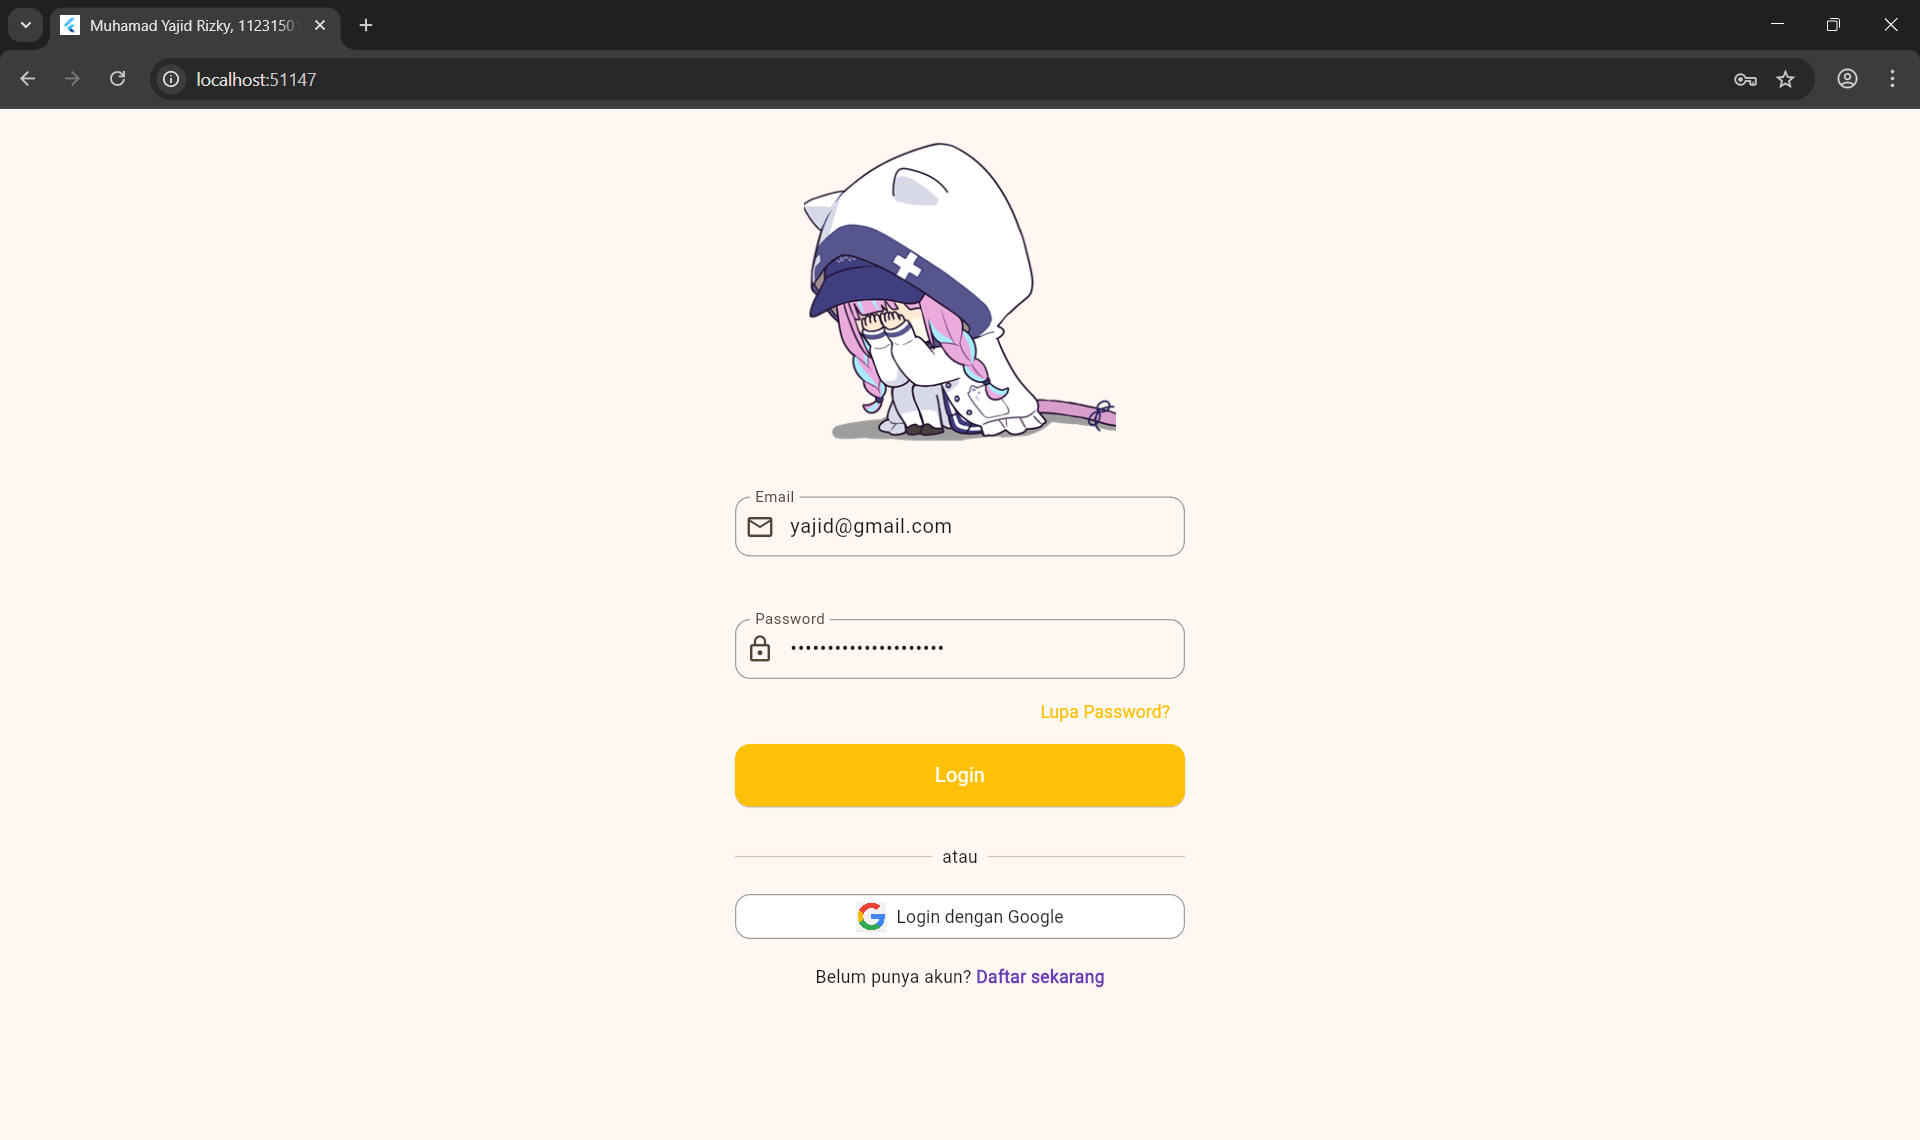
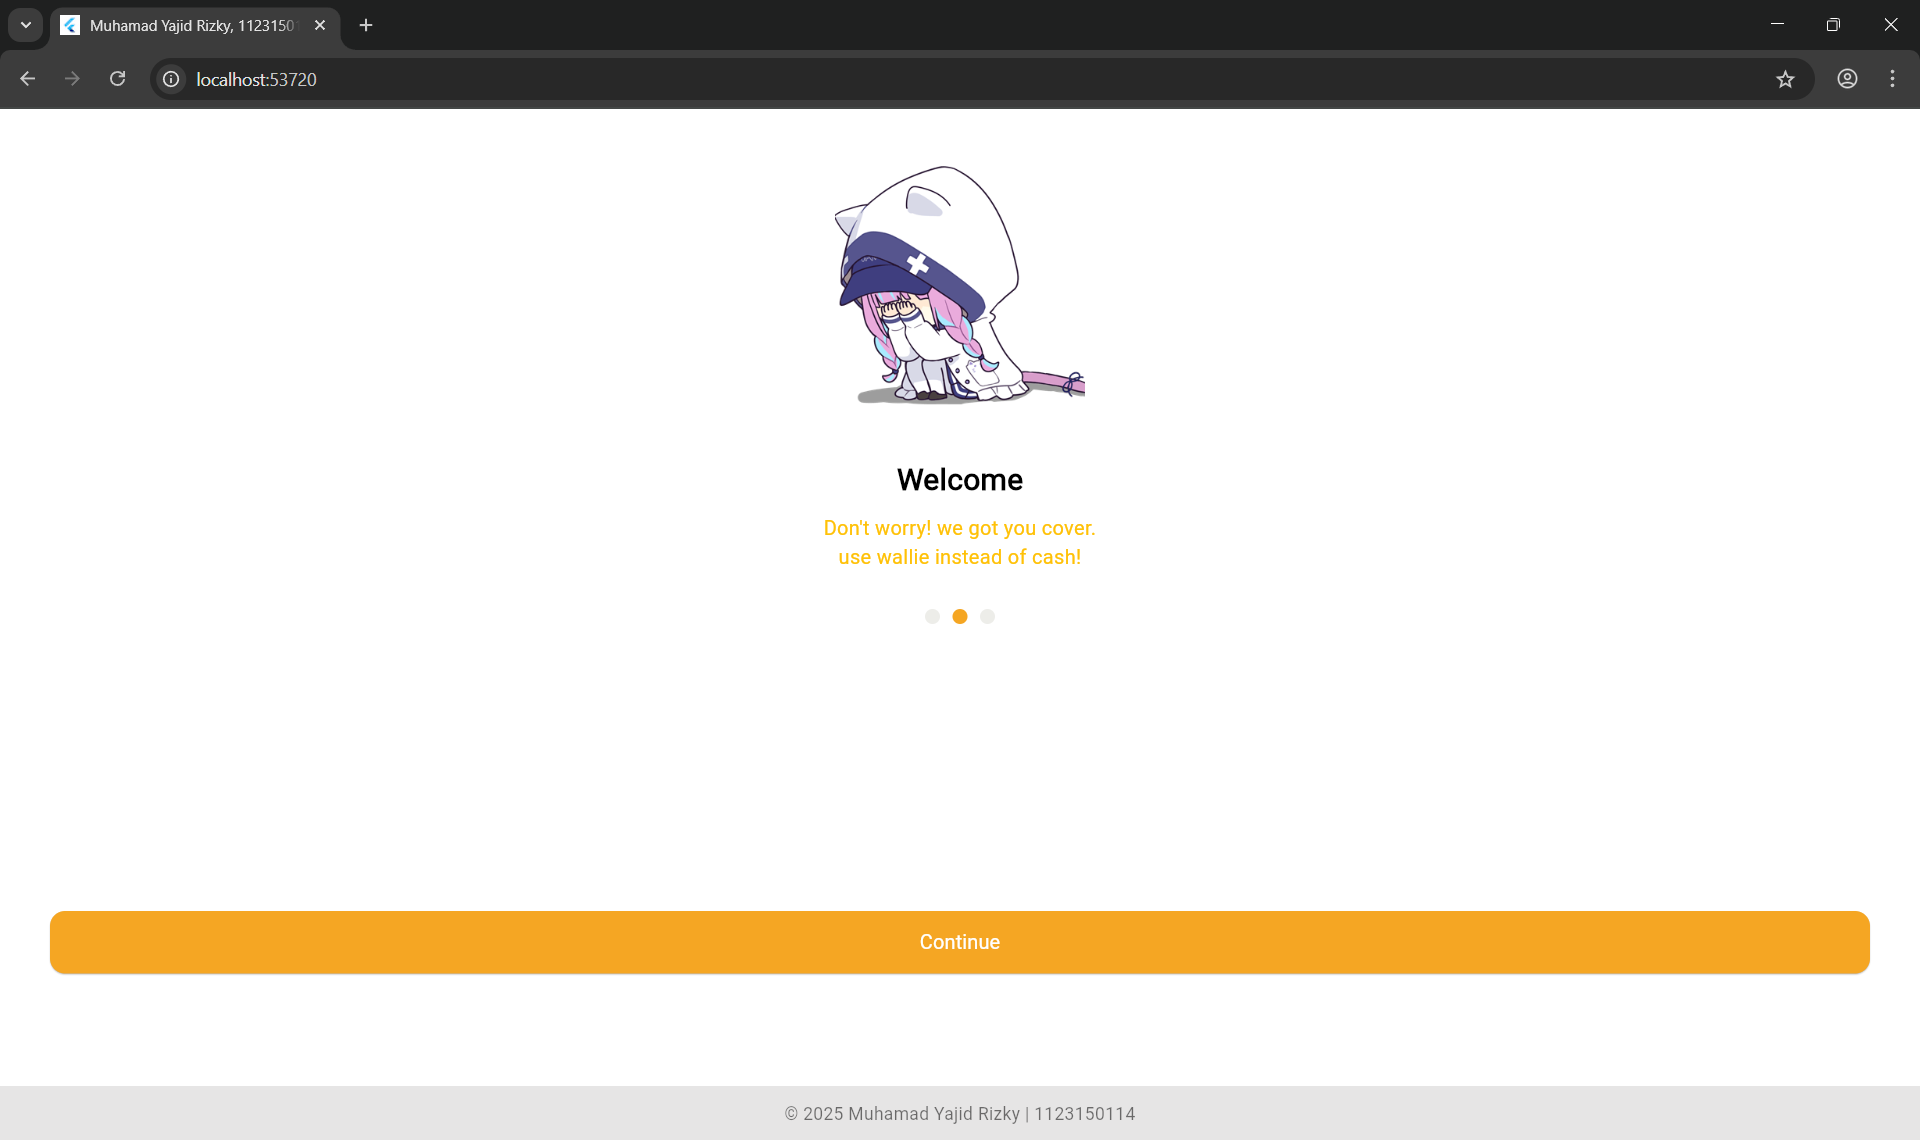
penyesuaian pada size foto di setiap page, dan mengganti screenshot ke versi terbaru

diff --git a/lib/login.dart b/lib/login.dart
@@ -16,8 +16,8 @@ class Login extends StatelessWidget {
               mainAxisAlignment: MainAxisAlignment.center,
               children: [
                  Container(
-                  width: 250,
-                  height: 250,
+                  width: 150,
+                  height: 150,
                   decoration: BoxDecoration(
                     image: DecorationImage(
                       image: AssetImage('assets/images/splash1.png'),
@@ -48,7 +48,7 @@ class Login extends StatelessWidget {
 
                 const SizedBox(height: 10),
 
-                const SizedBox(height: 40),
+                const SizedBox(height: 15),
                 TextField(
                   keyboardType: TextInputType.visiblePassword,
                   obscureText: true,

diff --git a/lib/screens/splash_screen_1.dart b/lib/screens/splash_screen_1.dart
@@ -17,8 +17,8 @@ class SplashScreen1 extends StatelessWidget {
             mainAxisAlignment: MainAxisAlignment.center,
             children: [
               Container(
-                width: 250,
-                height: 250,
+                width: 200,
+                height: 200,
                 decoration: BoxDecoration(
                   image: DecorationImage(
                     image: AssetImage('assets/images/splash1.png'),

diff --git a/lib/screens/splash_screen_2.dart b/lib/screens/splash_screen_2.dart
@@ -17,8 +17,8 @@ class SplashScreen2 extends StatelessWidget {
             mainAxisAlignment: MainAxisAlignment.center,
             children: [
               Container(
-                width: 250,
-                height: 250,
+                width: 200,
+                height: 200,
                 decoration: BoxDecoration(
                   image: DecorationImage(
                     image: AssetImage('assets/images/splash1.png'),

diff --git a/lib/screens/splash_screen_3.dart b/lib/screens/splash_screen_3.dart
@@ -17,8 +17,8 @@ class SplashScreen3 extends StatelessWidget {
             mainAxisAlignment: MainAxisAlignment.center,
             children: [
               Container(
-                width: 250,
-                height: 250,
+                width: 200,
+                height: 200,
                 decoration: BoxDecoration(
                   image: DecorationImage(
                     image: AssetImage('assets/images/splash1.png'),
